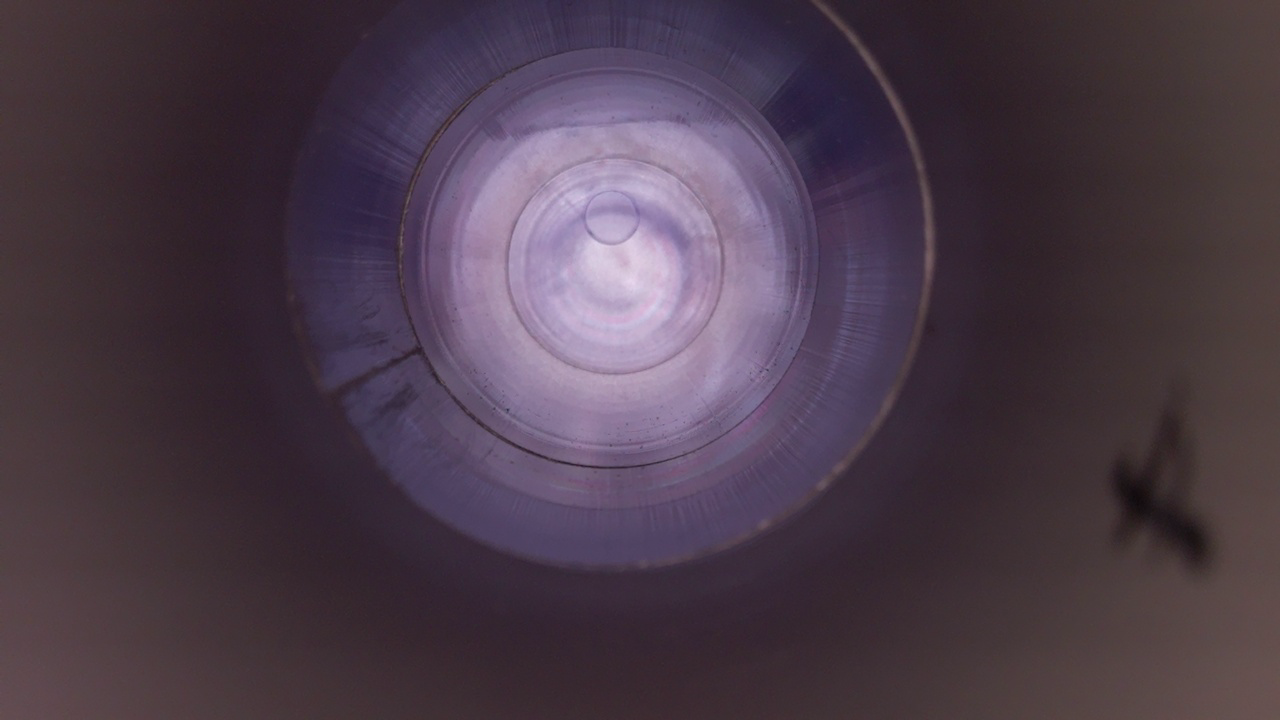
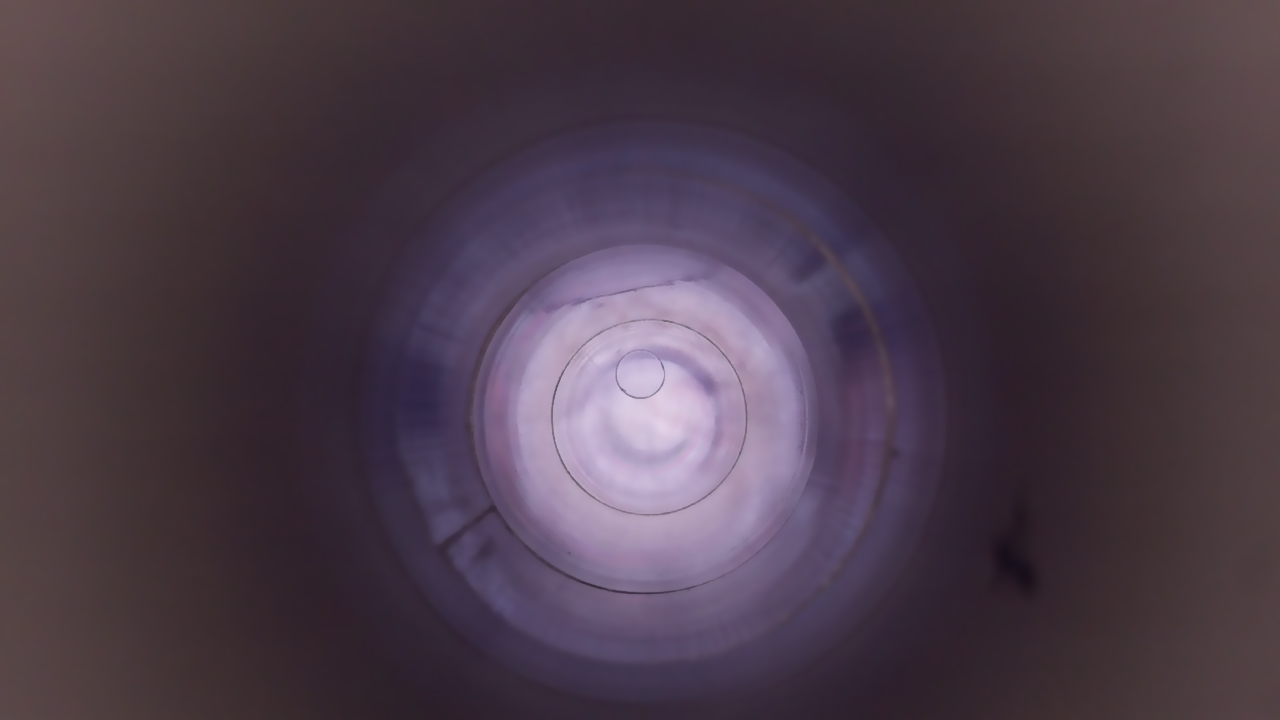
finalalllllyy done

diff --git a/Final_GUI/vid_noise_reduction.py b/Final_GUI/vid_noise_reduction.py
@@ -1,6 +1,7 @@
 import tkinter as tk
 import cv2
 import os
+import numpy as np
 
     
 from det_Canny_edge import CannyEdgeDetector
@@ -31,8 +32,8 @@ class NoiseReductionApp:
         self.enable_screenshot = False
         self.screenshot_count = 0
         self.total_screenshots_to_save = 20
-
-
+        
+        self.failure_detection_flag = False
 
         # External dependencies (to be set later)
         self.cap = None
@@ -67,8 +68,11 @@ class NoiseReductionApp:
 
             # Apply Canny edge if enabled
             if self.apply_canny and self.canny_detector is not None:
-                processed = self.canny_detector.apply(processed)
-                processed = cv2.cvtColor(processed, cv2.COLOR_GRAY2BGR)
+                self.gray_edges = self.canny_detector.apply(processed)  # ← grayscale image
+                processed = cv2.cvtColor(self.gray_edges, cv2.COLOR_GRAY2BGR)
+
+                # processed = self.canny_detector.apply(processed)
+                # processed = cv2.cvtColor(processed, cv2.COLOR_GRAY2BGR)
             
             if self.enable_screenshot and self.screenshot_count < self.total_screenshots_to_save:
                 SAVE_DIR = r"C:\Users\User\Desktop\extract_images_from_vid_streaming"
@@ -82,7 +86,49 @@ class NoiseReductionApp:
                 if self.screenshot_count >= self.total_screenshots_to_save:
                     self.enable_screenshot = False
                     print(" Done saving 20 screenshots.")
+            
+            
+            #-------------------------------------------------------------------        
+            # if self.failure_detection_flag:
+            #     # Use gray_edges directly (from earlier) for contour detection
+            #    if hasattr(self, "gray_edges") and self.gray_edges is not None:
+            #     contours, _ = cv2.findContours(self.gray_edges, cv2.RETR_EXTERNAL, cv2.CHAIN_APPROX_SIMPLE)
 
+            #     height, width = processed.shape[:2]
+            #     for c in contours:
+            #         x, y, w, h = cv2.boundingRect(c)
+            #         area = cv2.contourArea(c)
+            #         if h > (height // 2):
+            #             continue
+            #         if area < 150:
+            #             continue
+
+            #         cv2.rectangle(processed, (x, y), (x + w, y + h), (0, 0, 255), 1)
+            #         cv2.drawContours(processed, [c], -1, (0, 255, 0), 1)
+            
+            if self.failure_detection_flag:
+                if hasattr(self, "gray_edges") and self.gray_edges is not None:
+                    # Apply morphological closing to connect broken edges
+                    kernel = np.ones((3, 3), np.uint8)  # You can tweak this size (e.g., (5,5))
+                    closed_edges = cv2.morphologyEx(self.gray_edges, cv2.MORPH_CLOSE, kernel)
+
+                    # Now use the closed version for contour detection
+                    contours, _ = cv2.findContours(closed_edges, cv2.RETR_EXTERNAL, cv2.CHAIN_APPROX_SIMPLE)
+
+                    height, width = processed.shape[:2]
+                    for c in contours:
+                        x, y, w, h = cv2.boundingRect(c)
+                        area = cv2.contourArea(c)
+                        if h > (height // 2):
+                            continue
+                        if area < 150:
+                            continue
+
+                        cv2.rectangle(processed, (x, y), (x + w, y + h), (0, 0, 255), 1)
+                        cv2.drawContours(processed, [c], -1, (0, 255, 0), 1)
+
+
+            #-------------------------------------------------------------------------------
             
             self.current_frame = frame                # raw video frame
             self.filtered_frame = processed           # final processed frame
@@ -91,33 +137,6 @@ class NoiseReductionApp:
             self.root.after(30, update_frame)
 
         update_frame()
-
-
-
-    # def show_video_stream(self):
-    #     def update_frame():
-    #         ret, frame = self.cap.read()
-    #         if ret:
-    #             #if any if the filters applied
-    #             if self.apply_median:
-    #                 k = self.median_ksize
-    #                 if k % 2 == 0: k += 1
-    #                 frame = cv2.medianBlur(frame, k)
-    #             elif self.apply_gaussian:
-    #                 k = self.gaussian_ksize
-    #                 if k % 2 == 0: k += 1
-    #                 frame = cv2.GaussianBlur(frame, (k, k), self.gaussian_sigmaX)
-    #             elif self.apply_bilateral:
-    #                 d = max(1, self.bilateral_d)
-    #                 frame = cv2.bilateralFilter(frame, d, self.bilateral_sigmaColor, self.bilateral_sigmaSpace)
-    #             elif self.apply_canny and self.canny_detector is not None:
-    #                 frame = self.canny_detector.apply(frame)
-    #                 frame = cv2.canny(frame, cv2.COLOR_GRAY2BGR)  # Convert to BGR to display correctly
-                    
-    #             self.current_frame = frame
-    #             cv2.imshow("Live Stream", frame)
-    #         self.root.after(30, update_frame)
-    #     update_frame()
 
     def capture_current_frame(self):
         if self.cap is not None:
@@ -184,6 +203,10 @@ class NoiseReductionApp:
         self.apply_canny = True
         print("[INFO] Live Canny Edge Detection Enabled.")
             
+        
+        
+    def apply_failure_detection(self):
+        self.failure_detection_flag = True
         
     def extract_images_from_stream(self):
         self.enable_screenshot = True

diff --git a/Final_GUI/test.py b/Final_GUI/test.py
@@ -63,8 +63,9 @@ class GUI:
 
     def take_screenshot(self):
         self.clear_main_menu()
-        tk.Label(self.main_menu, text="Press start to start taking photos").pack()
-        tk.Button(self.main_menu, text="Start", command=self.logic.extract_images_from_stream).pack()
+        #tk.Label(self.main_menu, text="Press start to start taking photos").pack()
+        #tk.Button(self.main_menu, text="Start", command=self.logic.extract_images_from_stream).pack()
+        tk.Button(self.main_menu, text="Start", command=self.logic.apply_failure_detection).pack()
         tk.Button(self.main_menu, text="Back", command=self.edge_detection_menu).pack()
         
     

diff --git a/ready_code2.py b/ready_code2.py
@@ -1,8 +1,11 @@
 import cv2 as cv
 import numpy as np
 
+# https://stackoverflow.com/questions/67865452/the-problem-of-using-opencv-to-do-crack-detection
+
+
 # Load the Canny edge image (single channel)
-src = cv.imread("screenshot_video_streaming.png", cv.IMREAD_GRAYSCALE)
+src = cv.imread("frame_0000.png", cv.IMREAD_GRAYSCALE)
 
 # Optional: convert to color for visualization
 vis = cv.cvtColor(src, cv.COLOR_GRAY2BGR)

diff --git a/different_attempts/cracks_detection.py b/different_attempts/cracks_detection.py
@@ -35,6 +35,9 @@ while True:
     orb = cv2.ORB_create(nfeatures=1500)
     keypoints, descriptors = orb.detectAndCompute(closing, None)
     featuredImg = cv2.drawKeypoints(closing, keypoints, None)
+    
+    
+    
 
     # Display windows
     cv2.imshow("Original", frame)

diff --git a/ready_code.py b/ready_code.py
@@ -1,3 +1,6 @@
+
+# https://github.com/shomnathsomu/crack-detection-opencv/blob/master/CrackDetection.py 
+
 # importing necessary libraries
 import numpy as np
 import cv2
